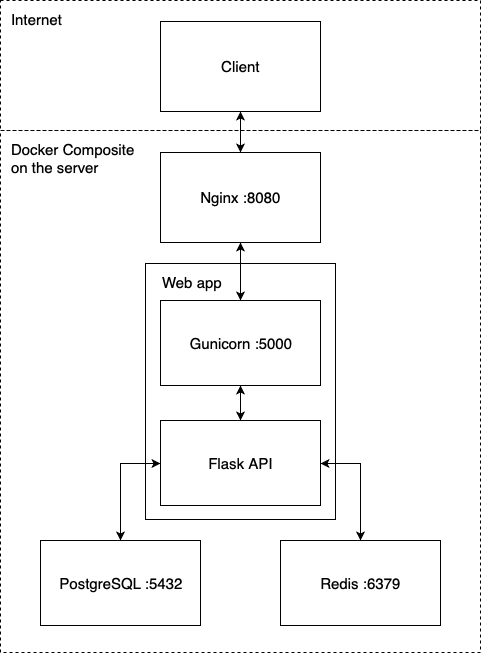
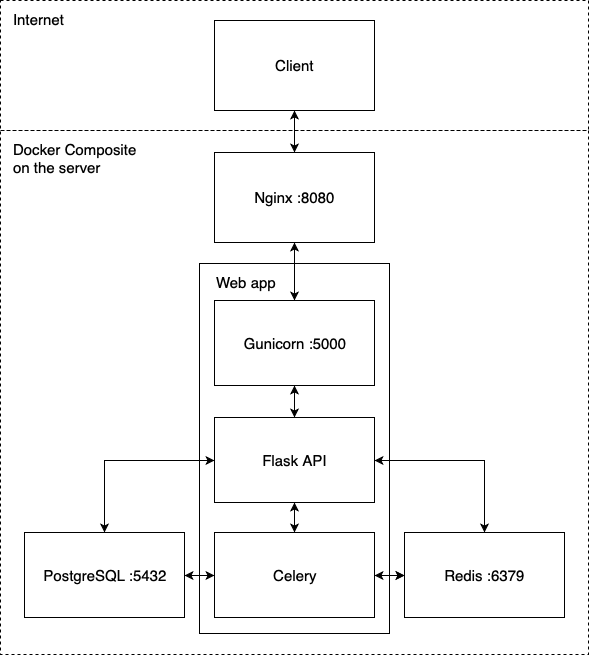
Added Celery, upgraded the environment and added more tests

diff --git a/app/tests/tests.py b/app/tests/tests.py
@@ -4,7 +4,7 @@ import json
 from app import *
 from app.project.environment import *
 
-def generate_dict_for_json(citizen_count, error_line=0, relatives=None):
+def generate_dict_for_json(citizen_count, error_line=None, relatives=None) -> dict:
     """
     Generates test data
 
@@ -27,21 +27,52 @@ def generate_dict_for_json(citizen_count, error_line=0, relatives=None):
                      name=random.choice(names), birth_date=random.choice(birth_date),
                      gender=random.choice(['male', 'female']),
                      relatives=[]) for i in range(citizen_count)]
+
     for i in range(random.randint(citizen_count // 2,
                                   (citizen_count // 2 * random.randint(2, 4)) * 5) if relatives is None else relatives):
         number_one, number_two = random.randint(0, citizen_count - 1), random.randint(0, citizen_count - 1)
         if number_one not in citizens[number_two]['relatives'] and number_two != citizens[number_one]['citizen_id']:
             citizens[number_one]['relatives'].append(number_two)
             citizens[number_two]['relatives'].append(number_one)
+
+    if error_line and len(citizens) > 1:
+        if error_line == "town":
+            citizens[0]["town"] = ""
+        elif error_line == "street":
+            citizens[0]["street"] = ""
+        elif error_line == "building":
+            citizens[0]["building"] = ""
+        elif error_line == "apartment":
+            citizens[0]["apartment"] = ""
+        elif error_line == "name":
+            citizens[0]["name"] = ""
+        elif error_line == "birth_date":
+            citizens[0]["birth_date"] = "31.02.2019"
+        elif error_line == "gender":
+            citizens[0]["gender"] = "???"
+        elif error_line == "relatives":
+            citizens[0]["relatives"] = [2]
+            citizens[1]["relatives"] = []
+
     return {"citizens": citizens}
 
 
 class MyTestCase(unittest.TestCase):
     def setUp(self) -> None:
+        """
+        Fires when the test is run
+
+        :return:
+        """
         self.app = app.test_client()
         db.create_all()
 
     def tearDown(self) -> None:
+        """
+        Fires when the test is stopped
+
+        :return:
+        """
         db_redis.flushall()
         db.drop_all()
 
@@ -52,9 +83,48 @@ class MyTestCase(unittest.TestCase):
         :return:
         """
         response = self.app.post("/imports",
-                                 data=json.dumps(generate_dict_for_json(100)),
+                                 data=json.dumps(generate_dict_for_json(10000)),
                                  content_type='application/json')
         self.assertEqual(response.status_code, 201)
+
+    def test_task_one_errors(self) -> None:
+        """
+        Checks if data validation is working
+
+        :return:
+        """
+        response_town = self.app.post("/imports",
+                                      data=json.dumps(generate_dict_for_json(20, "town")),
+                                      content_type='application/json')
+        self.assertEqual(response_town.status_code, 400)
+        response_street = self.app.post("/imports",
+                                        data=json.dumps(generate_dict_for_json(20, "street")),
+                                        content_type='application/json')
+        self.assertEqual(response_street.status_code, 400)
+        response_building = self.app.post("/imports",
+                                          data=json.dumps(generate_dict_for_json(20, "building")),
+                                          content_type='application/json')
+        self.assertEqual(response_building.status_code, 400)
+        response_apartment = self.app.post("/imports",
+                                           data=json.dumps(generate_dict_for_json(20, "apartment")),
+                                           content_type='application/json')
+        self.assertEqual(response_apartment.status_code, 400)
+        response_name = self.app.post("/imports",
+                                      data=json.dumps(generate_dict_for_json(20, "name")),
+                                      content_type='application/json')
+        self.assertEqual(response_name.status_code, 400)
+        response_birth_date = self.app.post("/imports",
+                                            data=json.dumps(generate_dict_for_json(20, "birth_date")),
+                                            content_type='application/json')
+        self.assertEqual(response_birth_date.status_code, 400)
+        response_gender = self.app.post("/imports",
+                                        data=json.dumps(generate_dict_for_json(20, "gender")),
+                                        content_type='application/json')
+        self.assertEqual(response_gender.status_code, 400)
+        response_relatives = self.app.post("/imports",
+                                           data=json.dumps(generate_dict_for_json(20, "relatives")),
+                                           content_type='application/json')
+        self.assertEqual(response_relatives.status_code, 400)
 
     def test_task_two(self) -> None:
         """
@@ -73,6 +143,23 @@ class MyTestCase(unittest.TestCase):
                                   content_type='application/json')
         self.assertEqual(response.status_code, 200)
 
+    def test_task_two_errors(self) -> None:
+        """
+        Checks if data validation is working
+
+        :return:
+        """
+        self.test_task_one()
+        response = self.app.patch("/imports/1/citizens/1",
+                                  data=json.dumps({
+                                      "town": "Москва",
+                                      "street": "Иосифа Бродского",
+                                      "relatives": [1, 2, 99],
+                                      "birth_date": "31.02.2019"
+                                  }),
+                                  content_type='application/json')
+        self.assertEqual(response.status_code, 400)
+
     def test_task_tree(self) -> None:
         """
         Test the third API method
@@ -82,6 +169,16 @@ class MyTestCase(unittest.TestCase):
         self.test_task_one()
         response = self.app.get("/imports/1/citizens")
         self.assertEqual(response.status_code, 200)
+
+    def test_task_tree_errors(self) -> None:
+        """
+        Check response on errors
+
+        :return:
+        """
+        self.test_task_one()
+        response = self.app.get("/imports/-9999999999999/citizens")
+        self.assertEqual(response.status_code, 404)
 
     def test_task_four(self) -> None:
         """
@@ -93,6 +190,16 @@ class MyTestCase(unittest.TestCase):
         response = self.app.get("/imports/1/citizens/birthdays")
         self.assertEqual(response.status_code, 200)
 
+    def test_task_four_errors(self) -> None:
+        """
+        Check response on errors
+
+        :return:
+        """
+        self.test_task_one()
+        response = self.app.get("/imports/-9999999999999/citizens/birthdays")
+        self.assertEqual(response.status_code, 404)
+
     def test_task_five(self) -> None:
         """
         Test the fifth API method
@@ -102,6 +209,39 @@ class MyTestCase(unittest.TestCase):
         self.test_task_one()
         response = self.app.get("/imports/1/towns/stat/percentile/age")
         self.assertEqual(response.status_code, 200)
+
+    def test_task_five_errors(self) -> None:
+        """
+        Check response on errors
+
+        :return:
+        """
+        self.test_task_one()
+        response = self.app.get("/imports/-9999999999999/towns/stat/percentile/age")
+        self.assertEqual(response.status_code, 404)
+
+    def test_comparative(self) -> None:
+        """
+        The test compares the data on the server with the original
+
+        :return:
+        """
+        with open('tests/data/test_data.json', 'r') as test_data:
+            test_data = json.load(test_data)
+
+        response = self.app.post("/imports",
+                                 data=json.dumps(test_data),
+                                 content_type='application/json')
+
+        self.assertEqual(response.status_code, 201)
+        import_id = json.loads(response.get_data(as_text=True))["data"]["import_id"]
+
+        response = self.app.get(f"/imports/{import_id}/citizens")
+        self.assertEqual(response.status_code, 200)
+        response_data = sorted(json.loads(response.get_data(as_text=True))["data"], key=lambda x: x["citizen_id"])
+        test_data = sorted(test_data["citizens"], key=lambda x: x["citizen_id"])
+        self.assertEqual(response_data, test_data)
+
 
 if __name__ == '__main__':
     unittest.main()

diff --git a/app/project/resources.py b/app/project/resources.py
@@ -1,5 +1,6 @@
 import re
 from app.project.models import Imports, Citizen
+from app import celery
 from flask import request
 from flask_restful import Resource, abort
 from datetime import date, datetime
@@ -7,6 +8,7 @@ from math import ceil, floor
 
 
 class API_Add_Import(Resource):
+    @celery.task(bind=True)
     def post(self):
         """
         API method that adds import
@@ -81,6 +83,7 @@ class API_Add_Import(Resource):
 
 
 class API_Update_Citizen(Resource):
+    @celery.task(bind=True)
     def patch(self, import_id, citizen_id):
         """
         An API method that updates the import resident information
@@ -100,7 +103,7 @@ class API_Update_Citizen(Resource):
             if any(item in args for item in
                    ["town", "street", "building", "apartment", "name", "birth_date", "gender", "relatives"]):
                 if "name" in args:
-                    if not re.fullmatch(r'^\w+(\s\w+|(\s\w+){2})', args["name"]):
+                    if not re.fullmatch(r'^[\D]+', args["name"]):
                         return None
                 if "gender" in args:
                     if not re.fullmatch(r'^female|male', args["gender"]):
@@ -161,6 +164,7 @@ class API_Update_Citizen(Resource):
 
 
 class API_Get_Citizens(Resource):
+    @celery.task(bind=True)
     def get(self, import_id):
         """
         An API method that returns all residents of a single import
@@ -179,6 +183,7 @@ class API_Get_Citizens(Resource):
 
 
 class API_Get_Gifts(Resource):
+    @celery.task(bind=True)
     def get(self, import_id):
         """
         An API method that calculates the required number of gifts for each month of a single import
@@ -203,6 +208,7 @@ class API_Get_Gifts(Resource):
 
 
 class API_Get_Citizen_Percentile(Resource):
+    @celery.task(bind=True)
     def get(self, import_id):
         """
         An API method that counts the percentile of one import for each city

diff --git a/app/__init__.py b/app/__init__.py
@@ -3,21 +3,27 @@ from flask import Flask, render_template
 from flask_sqlalchemy import SQLAlchemy
 from flask_restful import Api
 from redis import Redis
+from celery import Celery
 
 app = Flask(__name__)
 app.config.update(
     SECRET_KEY=SECRET_KEY,
     SQLALCHEMY_DATABASE_URI=DATABASE_URI + POSTGRES_DB,
-    SQLALCHEMY_TRACK_MODIFICATIONS=False
+    SQLALCHEMY_TRACK_MODIFICATIONS=False,
+    CELERY_BROKER_URL=f'redis://{REDIS_HOST}:{REDIS_PASSWORD}@{REDIS_HOST}:{REDIS_PORT}/2',
+    CELERY_RESULT_BACKEND=f'redis://{REDIS_HOST}:{REDIS_PASSWORD}@{REDIS_HOST}:{REDIS_PORT}/2'
 )
+
+celery = Celery(app.name, broker=app.config['CELERY_BROKER_URL'])
+celery.conf.update(app.config)
 
 db = SQLAlchemy(app)
 db_redis = Redis(
     host=REDIS_HOST,
     port=REDIS_PORT,
     password=REDIS_PASSWORD,
-    db=REDIS_DB)
-
+    db=REDIS_DB
+)
 
 from app.project import models, resources
 from app.project.models import Imports, Citizen

diff --git a/app/project/models.py b/app/project/models.py
@@ -56,7 +56,6 @@ class Citizen(db.Model):
         db.session.bulk_save_objects(data)
         db.session.commit()
 
-
     @classmethod
     def get_citizens(cls, import_id) -> object or None:
         """
